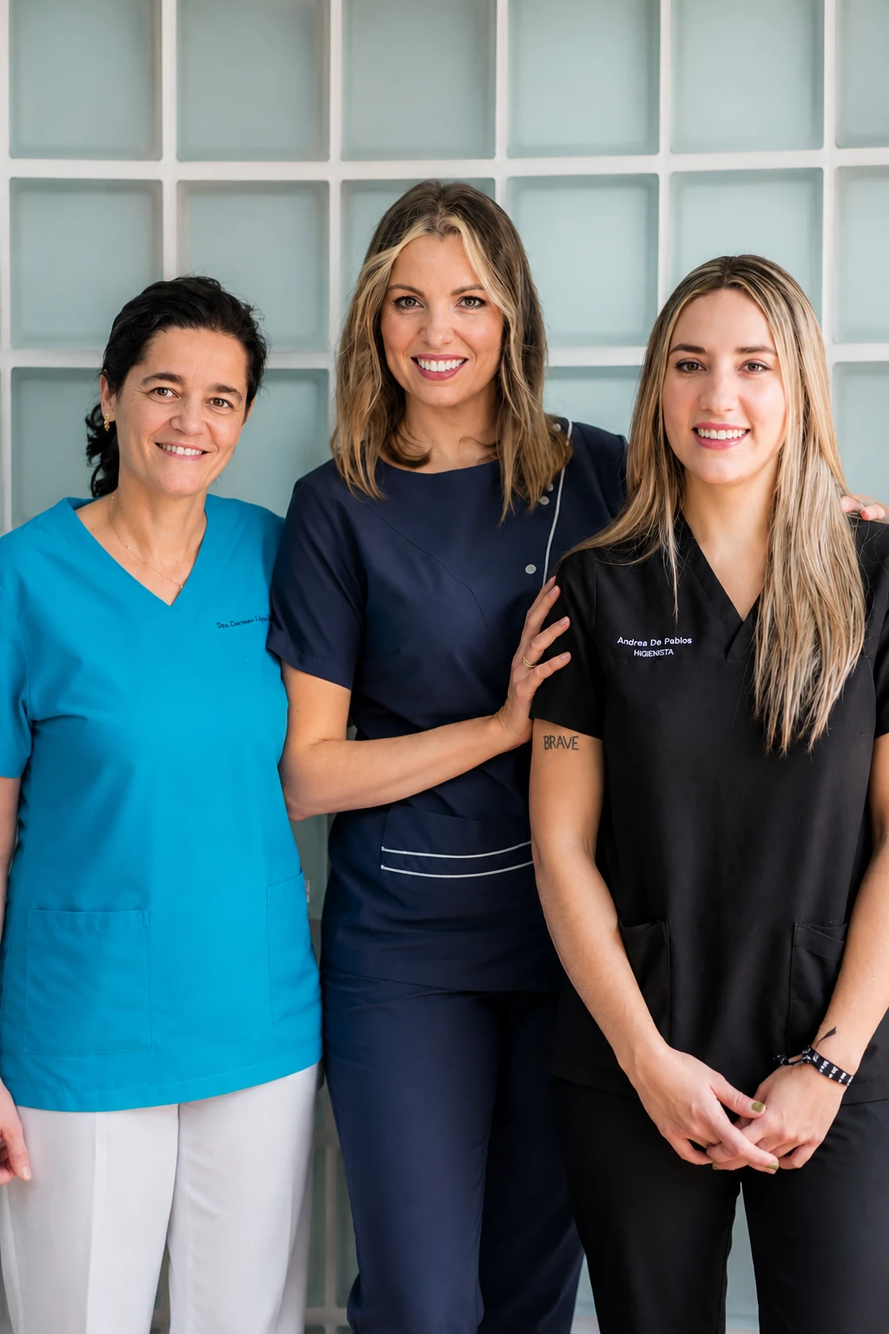
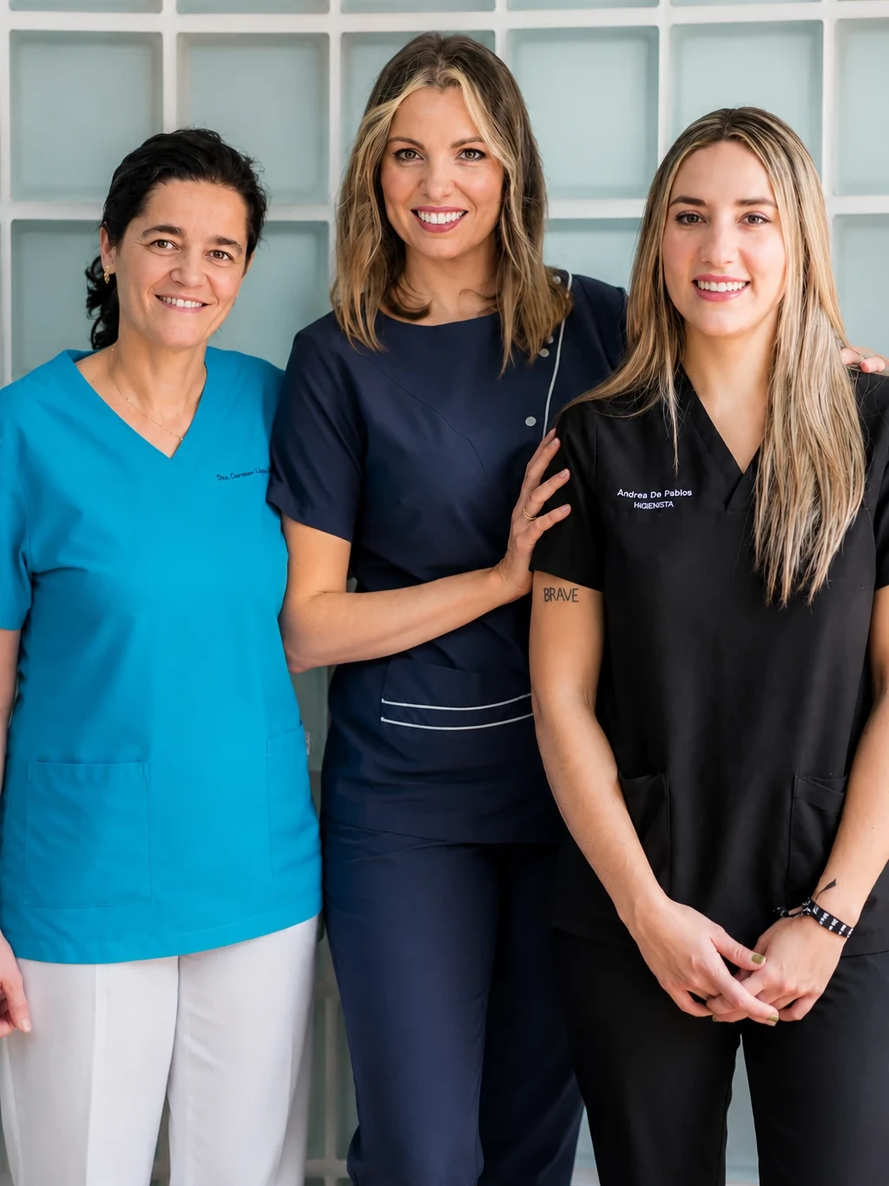
Ajusta el hero para llenar la pantalla exacta y añade llms.txt
- El hero y las cajas de sedes ahora se reparten el alto real de la
  pantalla (flexbox sobre 100vh) en vez de usar alturas fijas, así
  encajan sin dejar hueco ni tapar el inicio de Tratamientos, a
  cualquier ancho de ventana
- Recorta un poco más la foto del hero
- Las tarjetas de sede enlazan a Sedes/Talavera en vez de saltar
  demasiado abajo, y el título "Tratamientos" del footer enlaza a
  la sección de tratamientos
- Añade llms.txt con la información de la clínica para asistentes IA

diff --git a/index.html b/index.html
@@ -82,7 +82,7 @@
 <link href="https://fonts.googleapis.com/css2?family=Cormorant+Garamond:wght@300;400;500;600&family=DM+Sans:wght@300;400;500&display=swap" rel="stylesheet">
 <link rel="stylesheet" href="styles.css">
 <script src="header-cta.js" defer></script>
-<style>:root{--cream:#F9F6F1;--white:#FFFFFF;--navy:#0F2340;--teal:#2A7E7E;--teal-light:#3a9e9e;--gold:#C9A96E;--text:#2C2C2C;--text-muted:#7A7A7A;--border:#E8E2D9}body{font-family:'DM Sans',sans-serif;color:var(--text);background:var(--white);overflow-x:hidden}h1,h2,h3,h4{font-family:'Cormorant Garamond',serif;font-weight:400}header{position:fixed;top:0;left:0;right:0;z-index:100;background:rgba(255,255,255,.96);backdrop-filter:blur(12px);border-bottom:1px solid var(--border);padding:0 5%;display:flex;align-items:center;justify-content:space-between;height:72px;transition:box-shadow .3s}.logo-main{font-family:'Cormorant Garamond',serif;font-size:28px;font-weight:600;color:var(--navy);letter-spacing:.06em;text-transform:uppercase}nav a{text-decoration:none;color:var(--text);font-size:13px;letter-spacing:.04em;transition:color .2s,border-color .2s;position:relative;padding-bottom:4px;border-bottom:2px solid transparent}.nav-active{color:var(--teal)!important;border-bottom-color:var(--teal)!important}.scroll-progress{position:fixed;top:0;left:0;height:3px;width:0%;background:var(--teal);z-index:200;transition:width .1s ease-out}nav a::after{content:'';position:absolute;bottom:-2px;left:0;width:0;height:1px;background:var(--teal);transition:width .3s}nav a:hover::after{width:100%}.header-cta{background:var(--navy);color:#fff!important;padding:10px 22px;border-radius:2px;font-size:12px!important;letter-spacing:.1em!important;text-transform:uppercase;transition:background .2s!important}.header-cta::after{display:none!important}.header-cta:hover{background:var(--teal)!important}.hero{height:100vh;min-height:560px;display:grid;grid-template-columns:1fr 1fr;padding:0!important;margin:0!important;width:100%;padding-top:72px!important}.hero-left{background:var(--navy);display:flex;flex-direction:column;justify-content:center;padding:60px 8% 60px 10%;position:relative;overflow:hidden}.hero-left::before{content:'';position:absolute;top:-100px;right:-100px;width:400px;height:400px;border-radius:50%;border:1px solid rgba(255,255,255,.06)}.hero-left::after{content:'';position:absolute;bottom:-80px;left:-80px;width:300px;height:300px;border-radius:50%;border:1px solid rgba(255,255,255,.04)}.hero-badge{display:inline-flex;align-items:center;gap:8px;background:rgba(42,126,126,.2);border:1px solid rgba(42,126,126,.4);padding:9px 18px;border-radius:100px;font-size:14px;letter-spacing:.1em;text-transform:uppercase;color:var(--teal-light);margin-bottom:28px;width:fit-content;animation:fadeUp .8s ease both}.hero-badge-dot{width:6px;height:6px;border-radius:50%;background:var(--teal-light)}.hero-title{font-size:clamp(40px, 4.5vw, 64px);line-height:1.08;color:#fff;font-weight:300;animation:fadeUp .8s .1s ease both}.hero-title em{font-style:italic;color:var(--gold)}.hero-subtitle{margin-top:20px;font-size:15px;line-height:1.7;color:rgba(255,255,255,.6);max-width:420px;font-weight:300;animation:fadeUp .8s .2s ease both}.hero-actions{display:flex;gap:16px;margin-top:36px;animation:fadeUp .8s .3s ease both;flex-wrap:wrap}.btn-primary{background:var(--teal);color:#fff;padding:15px 32px;border-radius:2px;text-decoration:none;font-size:13px;letter-spacing:.08em;text-transform:uppercase;transition:background .2s,transform .2s;display:inline-block}.btn-primary:hover{background:var(--teal-light);transform:translateY(-1px)}.btn-ghost{border:1px solid rgba(255,255,255,.25);color:#fff;padding:15px 32px;border-radius:2px;text-decoration:none;font-size:13px;letter-spacing:.08em;text-transform:uppercase;transition:border-color .2s,background .2s;display:inline-block}.btn-ghost:hover{border-color:#fff;background:rgba(255,255,255,.05)}.hero-stats{display:flex;gap:36px;margin-top:48px;padding-top:36px;border-top:1px solid rgba(255,255,255,.1);animation:fadeUp .8s .4s ease both}.hero-stat-number{font-family:'Cormorant Garamond',serif;font-size:36px;font-weight:300;color:#fff;line-height:1}.hero-stat-label{font-size:11px;color:rgba(255,255,255,.45);letter-spacing:.08em;text-transform:uppercase;margin-top:5px}.hero-right{position:relative;overflow:hidden}.hero-image-placeholder{width:100%;background:linear-gradient(135deg,#e8e2d9 0,#d4cfc7 100%);display:flex;align-items:center;justify-content:center;flex-direction:column;gap:16px;color:var(--text-muted);position:relative}.hero-image-placeholder svg{width:64px;height:64px;opacity:.3}.hero-image-placeholder p{font-size:13px;opacity:.5;letter-spacing:.06em}.hero-card{position:absolute;bottom:40px;left:-24px;background:#fff;padding:20px 24px;border-radius:4px;box-shadow:0 20px 60px rgba(0,0,0,.12);min-width:220px;animation:fadeUp .8s .5s ease both}.hero-card-icon{width:36px;height:36px;background:var(--teal);border-radius:50%;display:flex;align-items:center;justify-content:center;margin-bottom:12px}.hero-card-title{font-size:13px;font-weight:500;color:var(--navy);margin-bottom:4px}.hero-card-sub{font-size:11px;color:var(--text-muted)}.sedes-banner{background:var(--teal);display:grid;grid-template-columns:1fr 1fr}.sede-item{padding:28px 6%;display:flex;align-items:center;gap:20px;color:#fff;text-decoration:none;transition:background .2s;border-right:1px solid rgba(255,255,255,.15)}.sede-item:last-child{border-right:none}.sede-item:hover{background:rgba(255,255,255,.08)}.sede-icon{width:44px;height:44px;background:rgba(255,255,255,.15);border-radius:50%;display:flex;align-items:center;justify-content:center;flex-shrink:0}.sede-name{font-size:15px;font-weight:500}.sede-address{font-size:12px;opacity:.7;margin-top:2px}.sede-phone{font-size:13px;opacity:.9;margin-top:4px;font-weight:500}section{padding:100px 10%}.section-label{font-size:11px;letter-spacing:.2em;text-transform:uppercase;color:var(--teal);margin-bottom:16px;display:block}.section-title{font-size:clamp(36px, 4vw, 52px);line-height:1.1;color:var(--navy);font-weight:300;max-width:600px}.servicios-header{display:flex;justify-content:space-between;align-items:flex-end;margin-bottom:24px;flex-wrap:wrap;gap:24px}.servicios{padding-top:32px;padding-bottom:80px}.servicios-grid{display:grid;grid-template-columns:repeat(3,1fr);gap:1px;background:var(--border)}.servicio-card{background:var(--white);padding:36px 32px;transition:background .3s;cursor:pointer}.servicio-card:hover{background:var(--navy)}.servicio-card:hover .servicio-desc,.servicio-card:hover .servicio-num,.servicio-card:hover .servicio-titulo{color:#fff}.servicio-num{font-size:11px;color:var(--text-muted);letter-spacing:.1em;margin-bottom:10px;transition:color .3s}.servicio-titulo{font-size:22px;color:var(--teal);margin-bottom:8px;font-weight:400;transition:color .3s}.servicio-titulo::after{content:'→';display:inline-block;margin-left:8px;opacity:0;transform:translateX(-6px);transition:opacity .3s ease,transform .3s ease}.servicio-card:hover .servicio-titulo::after{opacity:1;transform:translateX(0)}.servicio-desc{font-size:13px;line-height:1.7;color:var(--text-muted);transition:color .3s}.convenio{background:var(--cream);display:grid;grid-template-columns:1fr 1fr;gap:80px;align-items:center;padding:100px 10%;min-height:calc(100vh - 72px);scroll-margin-top:72px}.convenio-content p{font-size:15px;line-height:1.8;color:var(--text-muted);margin-top:24px;max-width:480px}.convenio-features{display:flex;flex-direction:column;gap:16px;margin-top:36px}.convenio-feature{display:flex;align-items:flex-start;gap:14px}.convenio-feature-icon{width:28px;height:28px;background:var(--teal);border-radius:50%;display:flex;align-items:center;justify-content:center;flex-shrink:0;margin-top:2px}.convenio-feature-icon svg{width:14px;height:14px;stroke:white;fill:none;stroke-width:2.5}.convenio-feature p{font-size:14px;color:var(--text);margin-top:0}.convenio-visual{background:var(--navy);border-radius:4px;padding:60px 50px;display:flex;flex-direction:column;gap:32px}.convenio-visual-title{font-family:'Cormorant Garamond',serif;font-size:32px;color:#fff;font-weight:300;line-height:1.2}.convenio-visual-title em{font-style:italic;color:var(--gold)}.convenio-visual-items{display:flex;flex-direction:column}.convenio-visual-item{display:flex;align-items:center;gap:12px;padding:14px 0;border-bottom:1px solid rgba(255,255,255,.08);color:rgba(255,255,255,.75);font-size:13px}.convenio-visual-item:last-child{border-bottom:none}.cvi-dot{width:6px;height:6px;border-radius:50%;background:var(--gold);flex-shrink:0}.convenio-cta{background:var(--teal);color:#fff;padding:14px 28px;border-radius:2px;text-decoration:none;font-size:12px;letter-spacing:.1em;text-transform:uppercase;text-align:center;transition:background .2s}.convenio-cta:hover{background:var(--teal-light)}.equipo{background:var(--white);text-align:center;padding-top:84px}.equipo .section-title{margin:0 auto 16px;max-width:640px;font-size:clamp(28px,3.2vw,42px)}.equipo-subtitle{font-size:15px;color:var(--text-muted);max-width:500px;margin:0 auto 36px;line-height:1.7}.equipo-grid{display:grid;grid-template-columns:repeat(4,1fr);gap:28px;max-width:1100px;margin:0 auto}.equipo-card{text-align:left;display:flex;flex-direction:column;height:100%}.equipo-foto{width:100%;aspect-ratio:1/1;background:linear-gradient(160deg,#e8e2d9,#d0cbc2);border-radius:4px;margin-bottom:12px;display:flex;align-items:center;justify-content:center;flex-direction:column;gap:8px;overflow:hidden}.equipo-foto svg{opacity:.25;width:40px;height:40px}.equipo-foto p{opacity:.4;font-size:11px;color:var(--text-muted)}.equipo-nombre{font-family:'Cormorant Garamond',serif;font-size:19px;color:var(--navy);margin-bottom:4px;line-height:1.2}.equipo-cargo{font-size:11px;letter-spacing:.1em;text-transform:uppercase;color:var(--teal)}.equipo-bio{font-size:13px;line-height:1.6;color:var(--text-muted);margin-top:10px;margin-bottom:12px}.equipo-perfil-link{font-size:11px;letter-spacing:.06em;text-transform:uppercase;color:var(--teal);text-decoration:none;font-weight:500;margin-top:auto;display:inline-block;border:1px solid var(--border);padding:9px 18px;border-radius:2px;transition:all .2s;align-self:flex-start}.equipo-perfil-link:hover{background:var(--teal);color:#fff;border-color:var(--teal)}.testimonios{background:var(--navy);padding:100px 10%}.testimonios .section-label{color:var(--gold)}.testimonios .section-title{color:#fff;margin-bottom:12px}.testimonios-rating-bar{display:flex;align-items:center;gap:16px;margin-bottom:56px;flex-wrap:wrap}.rating-score{font-family:'Cormorant Garamond',serif;font-size:52px;color:#fff;font-weight:300;line-height:1}.rating-details{display:flex;flex-direction:column;gap:4px}.rating-stars{color:var(--gold);font-size:20px;letter-spacing:3px}.rating-count{font-size:12px;color:rgba(255,255,255,.4);letter-spacing:.06em}.rating-source{font-size:11px;color:rgba(255,255,255,.25);text-transform:uppercase;letter-spacing:.1em}.rating-block{display:flex;align-items:center;gap:16px}.rating-divider{width:1px;height:60px;background:rgba(255,255,255,.12);margin:0 32px}.testimonios-grid{display:grid;grid-template-columns:repeat(3,1fr);gap:20px}.testimonio-card{background:#fff;border-radius:12px;padding:24px;display:flex;flex-direction:column;gap:16px;transition:transform .2s,box-shadow .2s}.testimonio-card:hover{transform:translateY(-4px);box-shadow:0 20px 50px rgba(0,0,0,.15)}.testimonio-header{display:flex;align-items:center;gap:12px}.testimonio-avatar{width:44px;height:44px;border-radius:50%;display:flex;align-items:center;justify-content:center;font-family:'DM Sans',sans-serif;font-size:17px;font-weight:500;color:#fff;flex-shrink:0}.testimonio-info{flex:1;min-width:0}.testimonio-nombre{font-size:14px;font-weight:500;color:var(--navy);white-space:nowrap;overflow:hidden;text-overflow:ellipsis}.testimonio-fecha{font-size:11px;color:var(--text-muted);margin-top:1px}.testimonio-google{margin-left:auto;flex-shrink:0}.testimonio-google svg{width:18px;height:18px}.testimonio-stars{color:#fbbc04;font-size:13px;letter-spacing:1px}.testimonio-texto{font-size:13px;line-height:1.7;color:var(--text);flex:1}.testimonio-via{font-size:11px;color:var(--text-muted);display:flex;align-items:center;gap:6px}.testimonio-via::before{content:'';width:14px;height:1px;background:var(--border);display:block}.contacto{background:var(--cream);padding:64px 10% 100px;scroll-margin-top:72px}.contacto-header{text-align:center;margin-bottom:32px}.contacto-header .section-title{margin:0 auto}.contacto-grid{display:grid;grid-template-columns:1fr 1fr;gap:40px}.contacto-sede{background:#fff;border-radius:4px;border:1px solid var(--border);overflow:hidden}.contacto-sede-info{padding:28px 32px}.contacto-sede-nombre{font-family:'Cormorant Garamond',serif;font-size:24px;color:var(--navy);margin-bottom:16px;padding-bottom:12px;border-bottom:1px solid var(--border)}.contacto-info-item{display:flex;gap:14px;margin-bottom:12px;align-items:flex-start}.contacto-info-icon{width:34px;height:34px;background:var(--cream);border-radius:50%;display:flex;align-items:center;justify-content:center;flex-shrink:0}.contacto-info-icon svg{width:15px;height:15px;stroke:var(--teal);fill:none;stroke-width:2}.contacto-info-label{font-size:10px;letter-spacing:.12em;text-transform:uppercase;color:var(--text-muted);margin-bottom:3px}.contacto-info-value{font-size:13px;color:var(--text);line-height:1.5}.contacto-info-value a{color:var(--teal);text-decoration:none;font-weight:500}.contacto-btn{display:block;width:100%;background:var(--navy);color:#fff;text-align:center;padding:14px;text-decoration:none;font-size:12px;letter-spacing:.1em;text-transform:uppercase;transition:background .2s;margin-top:16px;border-radius:2px}.contacto-btn:hover{background:var(--teal)}.mapa-embed{width:100%;height:180px;border:none;display:block;filter:grayscale(20%)}footer{background:var(--navy);padding:64px 10% 32px}.footer-top{display:grid;grid-template-columns:2fr 1fr 1fr;gap:64px;padding-bottom:48px;border-bottom:1px solid rgba(255,255,255,.08);margin-bottom:32px}.footer-logo .logo-main{color:#fff;font-size:20px}.footer-tagline{font-size:13px;line-height:1.7;margin-top:16px;max-width:280px;color:rgba(255,255,255,.4)}.footer-col-title{font-size:11px;letter-spacing:.15em;text-transform:uppercase;color:rgba(255,255,255,.6);margin-bottom:20px}.footer-links{list-style:none;display:flex;flex-direction:column;gap:10px}.footer-links a{color:rgba(255,255,255,.4);text-decoration:none;font-size:13px;transition:color .2s}.footer-links a:hover{color:#fff}.footer-bottom{display:flex;justify-content:space-between;align-items:center;font-size:12px;color:rgba(255,255,255,.35);flex-wrap:wrap;gap:12px}.footer-legal{display:flex;gap:24px}.footer-legal a{color:rgba(255,255,255,.35);text-decoration:none;font-size:11px;transition:color .2s}.footer-legal a:hover{color:rgba(255,255,255,.7)}@keyframes fadeUp{from{opacity:0;transform:translateY(24px)}to{opacity:1;transform:translateY(0)}}.reveal{opacity:0;transform:translateY(30px);transition:opacity .7s ease,transform .7s ease}@media (max-width:1024px){.hero{grid-template-columns:1fr;height:auto;min-height:100vh}.hero-right{display:none}.hero-left{min-height:calc(100vh - 72px);padding:80px 8%}.servicios-grid{grid-template-columns:repeat(2,1fr)}.servicios-grid>.servicio-card:last-child{grid-column:1/-1}.convenio{grid-template-columns:1fr}.equipo-grid{grid-template-columns:repeat(2,1fr)}.testimonios-grid{grid-template-columns:1fr 1fr}.footer-top{grid-template-columns:1fr 1fr;grid-template-rows:auto auto}.footer-top>div:nth-child(1){grid-column:1;grid-row:1}.footer-top>div:nth-child(2){grid-column:2;grid-row:1/3}.footer-top>div:nth-child(3){grid-column:1;grid-row:2}}@media (max-width:768px){section{padding:56px 6%}header{padding:0 6%}.logo-main{font-size:18px}.logo-sub{font-size:9px}.header-cta{display:none}nav{display:none}.hero-left{padding:48px 6% 56px}.hero-cta-group{flex-direction:column;gap:12px}.hero-cta-group a{width:100%;text-align:center;padding:16px}.hero-stats{display:grid;grid-template-columns:repeat(3,1fr);gap:20px 8px;margin-top:40px;padding-top:32px}.hero-stat-number{font-size:36px}.servicios-grid{grid-template-columns:1fr}.sedes-banner{grid-template-columns:1fr}.sede-item{border-right:none;border-bottom:1px solid rgba(255,255,255,.15);padding:24px 6%}.contacto-grid{grid-template-columns:1fr}.equipo-grid{grid-template-columns:1fr 1fr}.testimonios-grid{grid-template-columns:1fr}.testimonios-rating-bar{flex-direction:column;gap:24px}.rating-divider{width:60px;height:1px;margin:0}.footer-top{grid-template-columns:1fr;gap:40px}.footer-bottom{flex-direction:column;align-items:flex-start;gap:12px}.convenio{padding:56px 6%}.rating-score{font-size:40px}.mobile-menu-btn{display:flex}}.cookie-banner{position:fixed;bottom:0;left:0;right:0;z-index:999;background:rgba(15,35,64,.97);backdrop-filter:blur(12px);padding:20px 5%;display:flex;align-items:center;justify-content:space-between;gap:24px;flex-wrap:wrap;border-top:1px solid rgba(255,255,255,.08);transform:translateY(100%);transition:transform .4s ease;box-shadow:0 -8px 32px rgba(0,0,0,.2)}.cookie-banner.visible{transform:translateY(0)}.cookie-text{font-size:13px;color:rgba(255,255,255,.6);line-height:1.6;max-width:680px}.cookie-text a{color:var(--teal);text-decoration:none}.cookie-text a:hover{text-decoration:underline}.cookie-btns{display:flex;gap:10px;flex-shrink:0}.cookie-accept{background:var(--teal);color:#fff;border:none;padding:10px 24px;border-radius:2px;font-size:12px;letter-spacing:.08em;text-transform:uppercase;cursor:pointer;transition:background .2s;font-family:'DM Sans',sans-serif}.cookie-accept:hover{background:var(--teal-light)}.cookie-reject{background:0 0;color:rgba(255,255,255,.4);border:1px solid rgba(255,255,255,.15);padding:10px 20px;border-radius:2px;font-size:12px;letter-spacing:.08em;text-transform:uppercase;cursor:pointer;transition:all .2s;font-family:'DM Sans',sans-serif}.cookie-reject:hover{border-color:rgba(255,255,255,.4);color:rgba(255,255,255,.7)}.mobile-menu-btn{display:none;flex-direction:column;gap:5px;cursor:pointer;padding:8px;background:0 0;border:none;z-index:200}@media (max-width:768px){.mobile-menu-btn{display:flex!important}}.mobile-menu-btn span{width:24px;height:2px;background:var(--navy);border-radius:2px;transition:all .3s;display:block}.mobile-menu-btn.open span:first-child{transform:rotate(45deg) translate(5px,5px)}.mobile-menu-btn.open span:nth-child(2){opacity:0}.mobile-menu-btn.open span:nth-child(3){transform:rotate(-45deg) translate(5px,-5px)}.mobile-nav{display:none;position:fixed;top:72px;left:0;right:0;background:#fff;border-bottom:1px solid var(--border);padding:24px 6%;flex-direction:column;gap:0;z-index:99;box-shadow:0 8px 32px rgba(0,0,0,.1)}.mobile-nav a{padding:16px 0;font-size:15px;color:var(--text);text-decoration:none;border-bottom:1px solid var(--border);display:block}.mobile-nav a:last-child{border-bottom:none;color:var(--teal);font-weight:500}.mobile-nav.open{display:flex}</style>
+<style>:root{--cream:#F9F6F1;--white:#FFFFFF;--navy:#0F2340;--teal:#2A7E7E;--teal-light:#3a9e9e;--gold:#C9A96E;--text:#2C2C2C;--text-muted:#7A7A7A;--border:#E8E2D9}body{font-family:'DM Sans',sans-serif;color:var(--text);background:var(--white);overflow-x:hidden}h1,h2,h3,h4{font-family:'Cormorant Garamond',serif;font-weight:400}header{position:fixed;top:0;left:0;right:0;z-index:100;background:rgba(255,255,255,.96);backdrop-filter:blur(12px);border-bottom:1px solid var(--border);padding:0 5%;display:flex;align-items:center;justify-content:space-between;height:72px;transition:box-shadow .3s}.logo-main{font-family:'Cormorant Garamond',serif;font-size:28px;font-weight:600;color:var(--navy);letter-spacing:.06em;text-transform:uppercase}nav a{text-decoration:none;color:var(--text);font-size:13px;letter-spacing:.04em;transition:color .2s,border-color .2s;position:relative;padding-bottom:4px;border-bottom:2px solid transparent}.nav-active{color:var(--teal)!important;border-bottom-color:var(--teal)!important}.scroll-progress{position:fixed;top:0;left:0;height:3px;width:0%;background:var(--teal);z-index:200;transition:width .1s ease-out}nav a::after{content:'';position:absolute;bottom:-2px;left:0;width:0;height:1px;background:var(--teal);transition:width .3s}nav a:hover::after{width:100%}.header-cta{background:var(--navy);color:#fff!important;padding:10px 22px;border-radius:2px;font-size:12px!important;letter-spacing:.1em!important;text-transform:uppercase;transition:background .2s!important}.header-cta::after{display:none!important}.header-cta:hover{background:var(--teal)!important}.hero-wrap{display:flex;flex-direction:column;height:100vh}.hero{flex:1 1 auto;min-height:0;display:grid;grid-template-columns:1fr 1fr;padding:0!important;margin:0!important;width:100%;padding-top:72px!important}.hero-left{background:var(--navy);display:flex;flex-direction:column;justify-content:center;padding:32px 8% 28px 10%;position:relative;overflow:hidden}.hero-left::before{content:'';position:absolute;top:-100px;right:-100px;width:400px;height:400px;border-radius:50%;border:1px solid rgba(255,255,255,.06)}.hero-left::after{content:'';position:absolute;bottom:-80px;left:-80px;width:300px;height:300px;border-radius:50%;border:1px solid rgba(255,255,255,.04)}.hero-badge{display:inline-flex;align-items:center;gap:8px;background:rgba(42,126,126,.2);border:1px solid rgba(42,126,126,.4);padding:9px 18px;border-radius:100px;font-size:14px;letter-spacing:.1em;text-transform:uppercase;color:var(--teal-light);margin-bottom:14px;width:fit-content;animation:fadeUp .8s ease both}.hero-badge-dot{width:6px;height:6px;border-radius:50%;background:var(--teal-light)}.hero-title{font-size:clamp(28px, 3vw, 42px);line-height:1.12;color:#fff;font-weight:300;animation:fadeUp .8s .1s ease both}.hero-title em{font-style:italic;color:var(--gold)}.hero-subtitle{margin-top:10px;font-size:14px;line-height:1.6;color:rgba(255,255,255,.6);max-width:420px;font-weight:300;animation:fadeUp .8s .2s ease both}.hero-actions{display:flex;gap:16px;margin-top:18px;animation:fadeUp .8s .3s ease both;flex-wrap:wrap}.btn-primary{background:var(--teal);color:#fff;padding:12px 28px;border-radius:2px;text-decoration:none;font-size:13px;letter-spacing:.08em;text-transform:uppercase;transition:background .2s,transform .2s;display:inline-block}.btn-primary:hover{background:var(--teal-light);transform:translateY(-1px)}.btn-ghost{border:1px solid rgba(255,255,255,.25);color:#fff;padding:12px 28px;border-radius:2px;text-decoration:none;font-size:13px;letter-spacing:.08em;text-transform:uppercase;transition:border-color .2s,background .2s;display:inline-block}.btn-ghost:hover{border-color:#fff;background:rgba(255,255,255,.05)}.hero-stats{display:flex;gap:36px;margin-top:20px;padding-top:16px;border-top:1px solid rgba(255,255,255,.1);animation:fadeUp .8s .4s ease both}.hero-stat-number{font-family:'Cormorant Garamond',serif;font-size:26px;font-weight:300;color:#fff;line-height:1}.hero-stat-label{font-size:11px;color:rgba(255,255,255,.45);letter-spacing:.08em;text-transform:uppercase;margin-top:4px}.hero-right{position:relative;overflow:hidden}.hero-image-placeholder{width:100%;background:linear-gradient(135deg,#e8e2d9 0,#d4cfc7 100%);display:flex;align-items:center;justify-content:center;flex-direction:column;gap:16px;color:var(--text-muted);position:relative}.hero-image-placeholder svg{width:64px;height:64px;opacity:.3}.hero-image-placeholder p{font-size:13px;opacity:.5;letter-spacing:.06em}.hero-card{position:absolute;bottom:40px;left:-24px;background:#fff;padding:20px 24px;border-radius:4px;box-shadow:0 20px 60px rgba(0,0,0,.12);min-width:220px;animation:fadeUp .8s .5s ease both}.hero-card-icon{width:36px;height:36px;background:var(--teal);border-radius:50%;display:flex;align-items:center;justify-content:center;margin-bottom:12px}.hero-card-title{font-size:13px;font-weight:500;color:var(--navy);margin-bottom:4px}.hero-card-sub{font-size:11px;color:var(--text-muted)}.sedes-banner{background:var(--teal);display:grid;grid-template-columns:1fr 1fr;flex-shrink:0}.sede-item{padding:20px 6%;display:flex;align-items:center;gap:16px;color:#fff;text-decoration:none;transition:background .2s;border-right:1px solid rgba(255,255,255,.15)}.sede-item:last-child{border-right:none}.sede-item:hover{background:rgba(255,255,255,.08)}.sede-icon{width:44px;height:44px;background:rgba(255,255,255,.15);border-radius:50%;display:flex;align-items:center;justify-content:center;flex-shrink:0}.sede-name{font-size:15px;font-weight:500}.sede-address{font-size:12px;opacity:.7;margin-top:2px}.sede-phone{font-size:13px;opacity:.9;margin-top:4px;font-weight:500}section{padding:100px 10%}.section-label{font-size:11px;letter-spacing:.2em;text-transform:uppercase;color:var(--teal);margin-bottom:16px;display:block}.section-title{font-size:clamp(36px, 4vw, 52px);line-height:1.1;color:var(--navy);font-weight:300;max-width:600px}.servicios-header{display:flex;justify-content:space-between;align-items:flex-end;margin-bottom:24px;flex-wrap:wrap;gap:24px}.servicios{padding-top:32px;padding-bottom:80px}.servicios-grid{display:grid;grid-template-columns:repeat(3,1fr);gap:1px;background:var(--border)}.servicio-card{background:var(--white);padding:36px 32px;transition:background .3s;cursor:pointer}.servicio-card:hover{background:var(--navy)}.servicio-card:hover .servicio-desc,.servicio-card:hover .servicio-num,.servicio-card:hover .servicio-titulo{color:#fff}.servicio-num{font-size:11px;color:var(--text-muted);letter-spacing:.1em;margin-bottom:10px;transition:color .3s}.servicio-titulo{font-size:22px;color:var(--teal);margin-bottom:8px;font-weight:400;transition:color .3s}.servicio-titulo::after{content:'→';display:inline-block;margin-left:8px;opacity:0;transform:translateX(-6px);transition:opacity .3s ease,transform .3s ease}.servicio-card:hover .servicio-titulo::after{opacity:1;transform:translateX(0)}.servicio-desc{font-size:13px;line-height:1.7;color:var(--text-muted);transition:color .3s}.convenio{background:var(--cream);display:grid;grid-template-columns:1fr 1fr;gap:80px;align-items:center;padding:100px 10%;min-height:calc(100vh - 72px);scroll-margin-top:72px}.convenio-content p{font-size:15px;line-height:1.8;color:var(--text-muted);margin-top:24px;max-width:480px}.convenio-features{display:flex;flex-direction:column;gap:16px;margin-top:36px}.convenio-feature{display:flex;align-items:flex-start;gap:14px}.convenio-feature-icon{width:28px;height:28px;background:var(--teal);border-radius:50%;display:flex;align-items:center;justify-content:center;flex-shrink:0;margin-top:2px}.convenio-feature-icon svg{width:14px;height:14px;stroke:white;fill:none;stroke-width:2.5}.convenio-feature p{font-size:14px;color:var(--text);margin-top:0}.convenio-visual{background:var(--navy);border-radius:4px;padding:60px 50px;display:flex;flex-direction:column;gap:32px}.convenio-visual-title{font-family:'Cormorant Garamond',serif;font-size:32px;color:#fff;font-weight:300;line-height:1.2}.convenio-visual-title em{font-style:italic;color:var(--gold)}.convenio-visual-items{display:flex;flex-direction:column}.convenio-visual-item{display:flex;align-items:center;gap:12px;padding:14px 0;border-bottom:1px solid rgba(255,255,255,.08);color:rgba(255,255,255,.75);font-size:13px}.convenio-visual-item:last-child{border-bottom:none}.cvi-dot{width:6px;height:6px;border-radius:50%;background:var(--gold);flex-shrink:0}.convenio-cta{background:var(--teal);color:#fff;padding:14px 28px;border-radius:2px;text-decoration:none;font-size:12px;letter-spacing:.1em;text-transform:uppercase;text-align:center;transition:background .2s}.convenio-cta:hover{background:var(--teal-light)}.equipo{background:var(--white);text-align:center;padding-top:84px}.equipo .section-title{margin:0 auto 16px;max-width:640px;font-size:clamp(28px,3.2vw,42px)}.equipo-subtitle{font-size:15px;color:var(--text-muted);max-width:500px;margin:0 auto 36px;line-height:1.7}.equipo-grid{display:grid;grid-template-columns:repeat(4,1fr);gap:28px;max-width:1100px;margin:0 auto}.equipo-card{text-align:left;display:flex;flex-direction:column;height:100%}.equipo-foto{width:100%;aspect-ratio:1/1;background:linear-gradient(160deg,#e8e2d9,#d0cbc2);border-radius:4px;margin-bottom:12px;display:flex;align-items:center;justify-content:center;flex-direction:column;gap:8px;overflow:hidden}.equipo-foto svg{opacity:.25;width:40px;height:40px}.equipo-foto p{opacity:.4;font-size:11px;color:var(--text-muted)}.equipo-nombre{font-family:'Cormorant Garamond',serif;font-size:19px;color:var(--navy);margin-bottom:4px;line-height:1.2}.equipo-cargo{font-size:11px;letter-spacing:.1em;text-transform:uppercase;color:var(--teal)}.equipo-bio{font-size:13px;line-height:1.6;color:var(--text-muted);margin-top:10px;margin-bottom:12px}.equipo-perfil-link{font-size:11px;letter-spacing:.06em;text-transform:uppercase;color:var(--teal);text-decoration:none;font-weight:500;margin-top:auto;display:inline-block;border:1px solid var(--border);padding:9px 18px;border-radius:2px;transition:all .2s;align-self:flex-start}.equipo-perfil-link:hover{background:var(--teal);color:#fff;border-color:var(--teal)}.testimonios{background:var(--navy);padding:100px 10%}.testimonios .section-label{color:var(--gold)}.testimonios .section-title{color:#fff;margin-bottom:12px}.testimonios-rating-bar{display:flex;align-items:center;gap:16px;margin-bottom:56px;flex-wrap:wrap}.rating-score{font-family:'Cormorant Garamond',serif;font-size:52px;color:#fff;font-weight:300;line-height:1}.rating-details{display:flex;flex-direction:column;gap:4px}.rating-stars{color:var(--gold);font-size:20px;letter-spacing:3px}.rating-count{font-size:12px;color:rgba(255,255,255,.4);letter-spacing:.06em}.rating-source{font-size:11px;color:rgba(255,255,255,.25);text-transform:uppercase;letter-spacing:.1em}.rating-block{display:flex;align-items:center;gap:16px}.rating-divider{width:1px;height:60px;background:rgba(255,255,255,.12);margin:0 32px}.testimonios-grid{display:grid;grid-template-columns:repeat(3,1fr);gap:20px}.testimonio-card{background:#fff;border-radius:12px;padding:24px;display:flex;flex-direction:column;gap:16px;transition:transform .2s,box-shadow .2s}.testimonio-card:hover{transform:translateY(-4px);box-shadow:0 20px 50px rgba(0,0,0,.15)}.testimonio-header{display:flex;align-items:center;gap:12px}.testimonio-avatar{width:44px;height:44px;border-radius:50%;display:flex;align-items:center;justify-content:center;font-family:'DM Sans',sans-serif;font-size:17px;font-weight:500;color:#fff;flex-shrink:0}.testimonio-info{flex:1;min-width:0}.testimonio-nombre{font-size:14px;font-weight:500;color:var(--navy);white-space:nowrap;overflow:hidden;text-overflow:ellipsis}.testimonio-fecha{font-size:11px;color:var(--text-muted);margin-top:1px}.testimonio-google{margin-left:auto;flex-shrink:0}.testimonio-google svg{width:18px;height:18px}.testimonio-stars{color:#fbbc04;font-size:13px;letter-spacing:1px}.testimonio-texto{font-size:13px;line-height:1.7;color:var(--text);flex:1}.testimonio-via{font-size:11px;color:var(--text-muted);display:flex;align-items:center;gap:6px}.testimonio-via::before{content:'';width:14px;height:1px;background:var(--border);display:block}.contacto{background:var(--cream);padding:64px 10% 100px;scroll-margin-top:72px}.contacto-header{text-align:center;margin-bottom:32px}.contacto-header .section-title{margin:0 auto}.contacto-grid{display:grid;grid-template-columns:1fr 1fr;gap:40px}.contacto-sede{background:#fff;border-radius:4px;border:1px solid var(--border);overflow:hidden;scroll-margin-top:72px}.contacto-sede-info{padding:28px 32px}.contacto-sede-nombre{font-family:'Cormorant Garamond',serif;font-size:24px;color:var(--navy);margin-bottom:16px;padding-bottom:12px;border-bottom:1px solid var(--border)}.contacto-info-item{display:flex;gap:14px;margin-bottom:12px;align-items:flex-start}.contacto-info-icon{width:34px;height:34px;background:var(--cream);border-radius:50%;display:flex;align-items:center;justify-content:center;flex-shrink:0}.contacto-info-icon svg{width:15px;height:15px;stroke:var(--teal);fill:none;stroke-width:2}.contacto-info-label{font-size:10px;letter-spacing:.12em;text-transform:uppercase;color:var(--text-muted);margin-bottom:3px}.contacto-info-value{font-size:13px;color:var(--text);line-height:1.5}.contacto-info-value a{color:var(--teal);text-decoration:none;font-weight:500}.contacto-btn{display:block;width:100%;background:var(--navy);color:#fff;text-align:center;padding:14px;text-decoration:none;font-size:12px;letter-spacing:.1em;text-transform:uppercase;transition:background .2s;margin-top:16px;border-radius:2px}.contacto-btn:hover{background:var(--teal)}.mapa-embed{width:100%;height:180px;border:none;display:block;filter:grayscale(20%)}footer{background:var(--navy);padding:64px 10% 32px}.footer-top{display:grid;grid-template-columns:2fr 1fr 1fr;gap:64px;padding-bottom:48px;border-bottom:1px solid rgba(255,255,255,.08);margin-bottom:32px}.footer-logo .logo-main{color:#fff;font-size:20px}.footer-tagline{font-size:13px;line-height:1.7;margin-top:16px;max-width:280px;color:rgba(255,255,255,.4)}.footer-col-title{font-size:11px;letter-spacing:.15em;text-transform:uppercase;color:rgba(255,255,255,.6);margin-bottom:20px}.footer-links{list-style:none;display:flex;flex-direction:column;gap:10px}.footer-links a{color:rgba(255,255,255,.4);text-decoration:none;font-size:13px;transition:color .2s}.footer-links a:hover{color:#fff}.footer-bottom{display:flex;justify-content:space-between;align-items:center;font-size:12px;color:rgba(255,255,255,.35);flex-wrap:wrap;gap:12px}.footer-legal{display:flex;gap:24px}.footer-legal a{color:rgba(255,255,255,.35);text-decoration:none;font-size:11px;transition:color .2s}.footer-legal a:hover{color:rgba(255,255,255,.7)}@keyframes fadeUp{from{opacity:0;transform:translateY(24px)}to{opacity:1;transform:translateY(0)}}.reveal{opacity:0;transform:translateY(30px);transition:opacity .7s ease,transform .7s ease}@media (max-width:1024px){.hero{grid-template-columns:1fr;height:auto}.hero-right{display:none}.hero-left{padding:40px 8%}.servicios-grid{grid-template-columns:repeat(2,1fr)}.servicios-grid>.servicio-card:last-child{grid-column:1/-1}.convenio{grid-template-columns:1fr}.equipo-grid{grid-template-columns:repeat(2,1fr)}.testimonios-grid{grid-template-columns:1fr 1fr}.footer-top{grid-template-columns:1fr 1fr;grid-template-rows:auto auto}.footer-top>div:nth-child(1){grid-column:1;grid-row:1}.footer-top>div:nth-child(2){grid-column:2;grid-row:1/3}.footer-top>div:nth-child(3){grid-column:1;grid-row:2}}@media (max-width:768px){section{padding:56px 6%}header{padding:0 6%}.logo-main{font-size:18px}.logo-sub{font-size:9px}.header-cta{display:none}nav{display:none}.hero-left{padding:48px 6% 56px}.hero-cta-group{flex-direction:column;gap:12px}.hero-cta-group a{width:100%;text-align:center;padding:16px}.hero-stats{display:grid;grid-template-columns:repeat(3,1fr);gap:20px 8px;margin-top:40px;padding-top:32px}.hero-stat-number{font-size:36px}.servicios-grid{grid-template-columns:1fr}.sedes-banner{grid-template-columns:1fr}.sede-item{border-right:none;border-bottom:1px solid rgba(255,255,255,.15);padding:24px 6%}.contacto-grid{grid-template-columns:1fr}.equipo-grid{grid-template-columns:1fr 1fr}.testimonios-grid{grid-template-columns:1fr}.testimonios-rating-bar{flex-direction:column;gap:24px}.rating-divider{width:60px;height:1px;margin:0}.footer-top{grid-template-columns:1fr;gap:40px}.footer-bottom{flex-direction:column;align-items:flex-start;gap:12px}.convenio{padding:56px 6%}.rating-score{font-size:40px}.mobile-menu-btn{display:flex}}.cookie-banner{position:fixed;bottom:0;left:0;right:0;z-index:999;background:rgba(15,35,64,.97);backdrop-filter:blur(12px);padding:20px 5%;display:flex;align-items:center;justify-content:space-between;gap:24px;flex-wrap:wrap;border-top:1px solid rgba(255,255,255,.08);transform:translateY(100%);transition:transform .4s ease;box-shadow:0 -8px 32px rgba(0,0,0,.2)}.cookie-banner.visible{transform:translateY(0)}.cookie-text{font-size:13px;color:rgba(255,255,255,.6);line-height:1.6;max-width:680px}.cookie-text a{color:var(--teal);text-decoration:none}.cookie-text a:hover{text-decoration:underline}.cookie-btns{display:flex;gap:10px;flex-shrink:0}.cookie-accept{background:var(--teal);color:#fff;border:none;padding:10px 24px;border-radius:2px;font-size:12px;letter-spacing:.08em;text-transform:uppercase;cursor:pointer;transition:background .2s;font-family:'DM Sans',sans-serif}.cookie-accept:hover{background:var(--teal-light)}.cookie-reject{background:0 0;color:rgba(255,255,255,.4);border:1px solid rgba(255,255,255,.15);padding:10px 20px;border-radius:2px;font-size:12px;letter-spacing:.08em;text-transform:uppercase;cursor:pointer;transition:all .2s;font-family:'DM Sans',sans-serif}.cookie-reject:hover{border-color:rgba(255,255,255,.4);color:rgba(255,255,255,.7)}.mobile-menu-btn{display:none;flex-direction:column;gap:5px;cursor:pointer;padding:8px;background:0 0;border:none;z-index:200}@media (max-width:768px){.mobile-menu-btn{display:flex!important}}.mobile-menu-btn span{width:24px;height:2px;background:var(--navy);border-radius:2px;transition:all .3s;display:block}.mobile-menu-btn.open span:first-child{transform:rotate(45deg) translate(5px,5px)}.mobile-menu-btn.open span:nth-child(2){opacity:0}.mobile-menu-btn.open span:nth-child(3){transform:rotate(-45deg) translate(5px,-5px)}.mobile-nav{display:none;position:fixed;top:72px;left:0;right:0;background:#fff;border-bottom:1px solid var(--border);padding:24px 6%;flex-direction:column;gap:0;z-index:99;box-shadow:0 8px 32px rgba(0,0,0,.1)}.mobile-nav a{padding:16px 0;font-size:15px;color:var(--text);text-decoration:none;border-bottom:1px solid var(--border);display:block}.mobile-nav a:last-child{border-bottom:none;color:var(--teal);font-weight:500}.mobile-nav.open{display:flex}</style>
 </head>
 <body>
 
@@ -122,6 +122,7 @@
 </div>
 
 <!-- HERO -->
+<div class="hero-wrap">
 <section class="hero">
   <div class="hero-left">
     <div class="hero-badge"><span class="hero-badge-dot"></span>Madrid · Talavera de la Reina</div>
@@ -138,13 +139,13 @@
     </div>
   </div>
   <div class="hero-right">
-    <img src="img/hero-clinica.webp" alt="Equipo de Dental Carriches" style="width:100%;height:100%;object-fit:cover;object-position:center top;display:block;">
+    <img src="img/hero-clinica.webp" alt="Equipo de Dental Carriches" style="position:absolute;inset:0;width:100%;height:100%;object-fit:cover;object-position:center top;display:block;">
   </div>
 </section>
 
 <!-- SEDES BANNER -->
 <div class="sedes-banner">
-  <a href="#madrid" class="sede-item">
+  <a href="#contacto" class="sede-item">
     <div class="sede-icon"><svg viewBox="0 0 24 24" fill="none" stroke="white" stroke-width="2" width="20" height="20"><path d="M12 2C8.13 2 5 5.13 5 9c0 5.25 7 13 7 13s7-7.75 7-13c0-3.87-3.13-7-7-7z"/><circle cx="12" cy="9" r="2.5"/></svg></div>
     <div>
       <div class="sede-name">Madrid — Argüelles (28008)</div>
@@ -160,6 +161,7 @@
       <div class="sede-phone">925 801 118</div>
     </div>
   </a>
+</div>
 </div>
 
 <!-- SERVICIOS -->
@@ -498,7 +500,7 @@
       <p class="footer-tagline">Más de 28 años cuidando la salud bucodental de nuestros pacientes con dedicación, profesionalidad y el trato cercano que mereces.</p>
     </div>
     <div>
-      <div class="footer-col-title">Tratamientos</div>
+      <a href="#servicios" class="footer-col-title" style="text-decoration:none;display:block">Tratamientos</a>
       <ul class="footer-links">
         <li><a href="odontologia-general.html">Odontología General</a></li>
         <li><a href="implantes.html">Implantes dentales</a></li>
